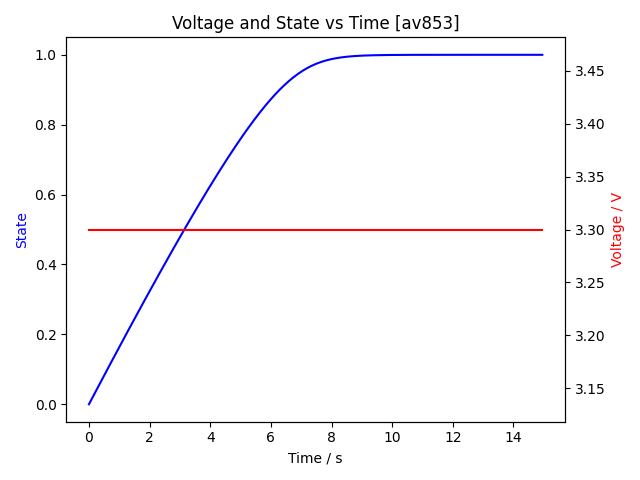
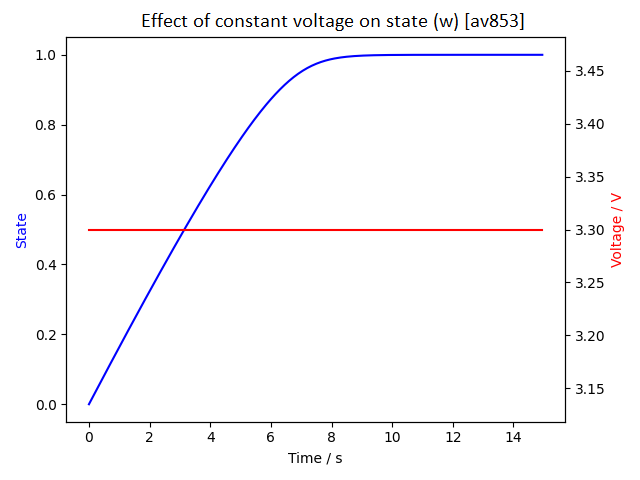
added dwbydt graph

Changed region(s): [[0.2188, 0.0312, 0.8438, 0.0625]]

diff --git a/MemristorSim/Program.cs b/MemristorSim/Program.cs
@@ -5,7 +5,7 @@ public class Program
     static float maxVoltage = 10f;
     static float Roff = 10;
     static float Ron = 1;
-    static float currentState = 0f;
+    static float currentState = 0.35f;
     static float alpha = 0.5f;
     static float beta = 0.5f;
     static float timeStep = 0.05f;
@@ -16,23 +16,24 @@ public class Program
     public static void Main()
     {
         float nextState = currentState;
-        using (var fileStream = new FileStream("ac.csv", FileMode.Create))
+        using (var fileStream = new FileStream("dwBydt.csv", FileMode.Create))
         using (var streamWriter = new StreamWriter(fileStream))
         {
             streamWriter.AutoFlush = true;
             float t = 0;
             Console.WriteLine("Simulating...");
+            /*
             while (t <= 20)
             {
                 currentState = nextState;
                 
                 float voltage = 0;
-
+                //voltage = maxVoltage;
                 //if((int)(t*2) % 2 == 0) voltage = 3.3f;
-                /*if(t > 1 && t < 3f) voltage = maxVoltage;
-                else if(t > 4 && t < 6f) voltage = maxVoltage;
-                else voltage = 0;
-                */
+                //if(t > 1 && t < 3f) voltage = maxVoltage;
+                //else if(t > 4 && t < 6f) voltage = maxVoltage;
+                //else voltage = 0;
+                
                 voltage = maxVoltage * MathF.Sin(t * frequency);
                 float memristance = ComputeMemristance(currentState);
                 float current = voltage/memristance + ComputeThermalNoise(memristance);
@@ -40,7 +41,22 @@ public class Program
                 nextState = currentState + dw;
                 nextState = Math.Clamp(nextState, 0, 1);
                 streamWriter.WriteLine(t + "," + voltage + "," + current + "," + currentState);
+
                 t += timeStep;
+            }*/
+
+            // dw/dt = i * (1-w)
+            // i = v/m(w)
+            // m(w) = r_off + r_on - r_off * w
+            // dw = [v/(r_off + (r_on - r_off)w)] * (1-w)dt
+            // dw/dt = i * w
+            // dw/dt = [v/roff + (r_on - roff)w] * w
+            for(float w = 0; w <= 1; w += 0.01f)
+            {
+                float dwBydtForward = maxVoltage/(Roff + (Ron - Roff) * w) * (1-w);
+                float dwBydtBackward = maxVoltage/(Roff + (Ron - Roff) * w) * (w);
+                dwBydtBackward /= 10;
+                streamWriter.WriteLine(w + "," + dwBydtForward + "," + dwBydtBackward);
             }
 
             Console.WriteLine("Done");

diff --git a/MemristorSim/Graph.py b/MemristorSim/Graph.py
@@ -1,9 +1,12 @@
 import matplotlib.pyplot as plt
 import pandas as pd
 
-rawData = pd.read_csv('bin\\Debug\\net10.0\\ac.csv', header=None, names=['Time', 'V', 'I', 'W'])
+#rawData = pd.read_csv('bin\\Debug\\net10.0\\ac.csv', header=None, names=['Time', 'V', 'I', 'W'])
+rawData = pd.read_csv('bin\\Debug\\net10.0\\dwBydt.csv', header=None, names=['W', 'dwForward', 'dwBackward'])
 data = rawData
-plot1, ax1 = plt.subplots()
+
+#plot1, ax1 = plt.subplots()
+'''
 plt.plot(data['V'], data['I'])
 plt.xlabel('Voltage / V')
 plt.ylabel('Current / A')
@@ -11,22 +14,17 @@ plt.title('Transient Hysteresis Loop [av853]')
 plt.axhline(y=0, color='black', linewidth=0.2)
 plt.axvline(x=0, color='black', linewidth=0.2)
 
+'''
 plot2, ax2 = plt.subplots()
-ax2.plot(data['Time'], data['W'], label='State', color = 'blue')
-ax2.set_ylabel('State', color='blue')
+ax2.plot(data['W'], data['dwForward'], color = 'blue')
+ax2.set_ylabel('Forward rate / /s', color='blue')
 
 ax3 = ax2.twinx()
-ax3.plot(data['Time'], data['V'], label='Voltage', color='red')
-ax3.set_ylabel('Voltage / V', color='red')
+ax3.plot(data['W'], data['dwBackward'], color='red')
+ax3.set_ylabel('Backward rate / /s', color='red')
 
-'''
-ax4 = ax2.twinx()
-ax4.plot(data['Time'], data['V']/data['I'], label="Current", color='orange')
-ax4.set_ylabel('Memristance / Ω', color='orange')
-'''
-
-ax2.set_title('Transient w evolution [av853]')
-ax2.set_xlabel('Time / s')
+ax2.set_title('Change in dw/dt across w [av853]')
+ax2.set_xlabel('State')
 
 plot2.tight_layout()
 

diff --git a/MemristorSim/obj/Debug/net10.0/MemristorSim.AssemblyInfo.cs b/MemristorSim/obj/Debug/net10.0/MemristorSim.AssemblyInfo.cs
@@ -13,7 +13,7 @@ using System.Reflection;
 [assembly: System.Reflection.AssemblyCompanyAttribute("MemristorSim")]
 [assembly: System.Reflection.AssemblyConfigurationAttribute("Debug")]
 [assembly: System.Reflection.AssemblyFileVersionAttribute("1.0.0.0")]
-[assembly: System.Reflection.AssemblyInformationalVersionAttribute("1.0.0+5c5db8f01ca93d4bee46492e57dcbf0590967eb8")]
+[assembly: System.Reflection.AssemblyInformationalVersionAttribute("1.0.0+574cbb3d7e5d1525173ea44b97f2c232ecea33e5")]
 [assembly: System.Reflection.AssemblyProductAttribute("MemristorSim")]
 [assembly: System.Reflection.AssemblyTitleAttribute("MemristorSim")]
 [assembly: System.Reflection.AssemblyVersionAttribute("1.0.0.0")]

diff --git a/MemristorSim/README.md b/MemristorSim/README.md
@@ -2,13 +2,18 @@
 ## Overview
 A memristor is a component that remembers the past charge through it. It was proposed as the fourth fundamental circuit component by Leon Chua in 1971 [[1]](#1)  
 Concrete physical manifestations of this device were proposed by Strukov et al. in 2008 [[2]](#2)  
+Memristors allow for the storage of a theoretically infinite number of states, [0, 1], limited by the SNR of the components.  
+Creating real memristors at any scale or for independant research is untennable. Therefore instead of simulating voltage controlled memristors, a light controlled photochromic approximation is being modelled instead. The set of results obtained in this project aim to reinforce the characteristics of a photochromic memristor.
+
+
+## Implementation
 The fundamental equations for this device are: [[1]](#1)  
 
 $v=M(w, i)i$  
 
 $\dfrac{dw}{dt} = f (w,i)$  
 
-However due to the difficulty in manufacturing these devices, an approximation can be achieved by using photochromatic dye. In this simulation, I use the simplified equation,
+In this simulation, I use the simplified equation,
 
 $v = M(w) i$
 
@@ -18,7 +23,7 @@ $i = \frac{v}{M(w)}$
 
 Where the resistance of the memristor is determined solely by its current state.  
 
-## Implementation  
+## Programming  
 To get the resistance, I lerp between $R_{on}$ and $R_{off}$ where $R_{on}$ is the resistance of the component in its most conductive state, and $R_{off}$ is the resistance in the least conductive state.  
 `Roff + (Ron - Roff) * _currentState`  
 Where the `_currentState` is a dimensionless quantity between 0 and 1.  
@@ -41,7 +46,8 @@ return dwBydt;
 where `alpha` and `beta` are coefficients to control the rate of forward and backward switching.  
 Each molecule of dye is independent of each other. However at the population level, can be modelled to be deterministic and predictable, where the rate of conversion decreases as more molecules convert,
 
-$w \rightarrow w_{max};  \dfrac{dw}{dt} \rightarrow 0$  
+$w \rightarrow w_{off};  \dfrac{dw_{forward}}{dt} \rightarrow 0$  
+$w \rightarrow w_{on};  \dfrac{dw_{backward}}{dt} \rightarrow 0$  
 
 To get a "fingerprint" for a memristor, it is best to plot the Lissajous figure from its IV characteristics. This allows us to see the pinched hysteresis loop that is characteristic of memristive behaviour.   
 For,  
